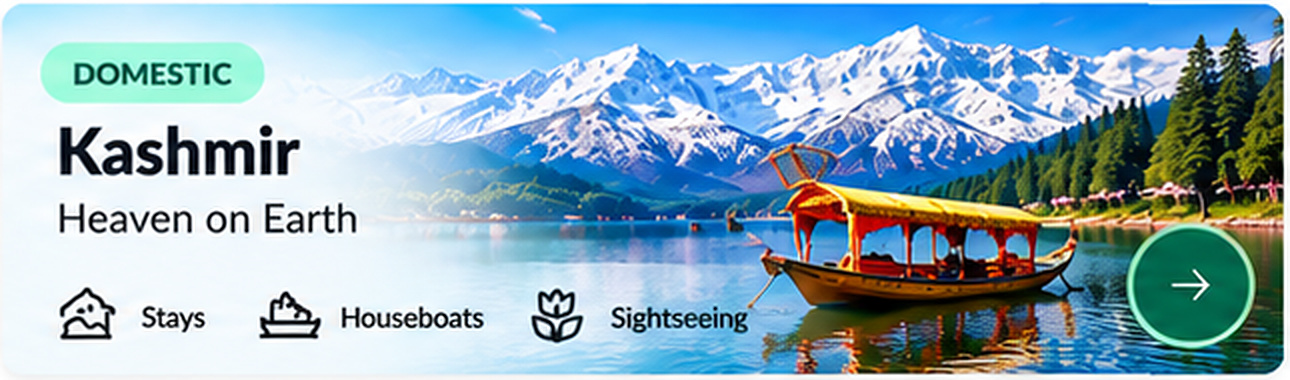
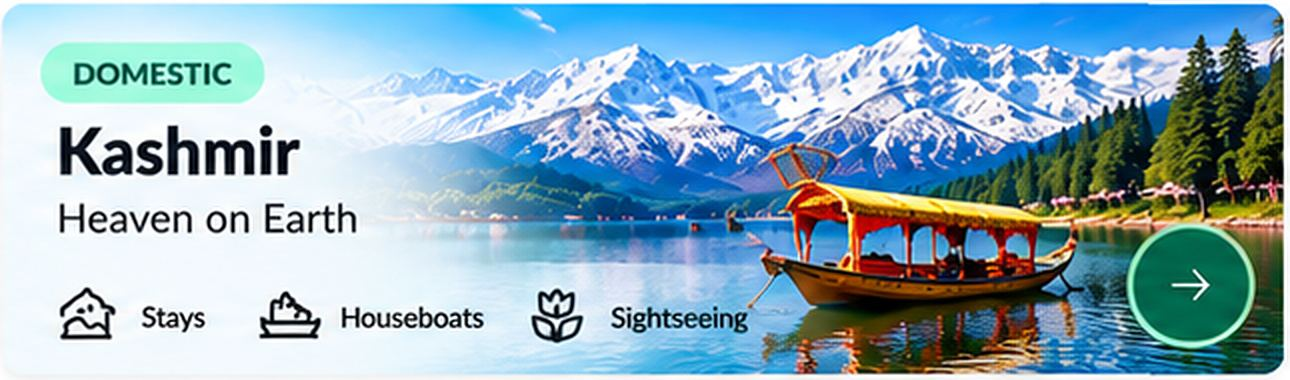
Cut homepage image weight so the first load is not tens of megabytes.

diff --git a/apps/web/components/home/HomeBoardSlider.tsx b/apps/web/components/home/HomeBoardSlider.tsx
@@ -84,19 +84,36 @@ function PromoSlider({
             target.addEventListener('pointerup', finish);
           }}
         >
-          {slides.map((slide, slideIndex) => (
-            <div className="home-promo-slide" key={slide.src} aria-hidden={slideIndex !== index}>
-              <Link
-                href={slide.href}
-                tabIndex={slideIndex === index ? 0 : -1}
-                onClick={(event) => {
-                  if (Math.abs(drag.current) > 48) event.preventDefault();
-                }}
-              >
-                <img src={slide.src} alt={slide.alt} width={slide.width} height={slide.height} />
-              </Link>
-            </div>
-          ))}
+          {slides.map((slide, slideIndex) => {
+            const distance = Math.min(
+              (slideIndex - index + slides.length) % slides.length,
+              (index - slideIndex + slides.length) % slides.length,
+            );
+            const current = slideIndex === index;
+            return (
+              <div className="home-promo-slide" key={slide.src} aria-hidden={!current}>
+                <Link
+                  href={slide.href}
+                  tabIndex={current ? 0 : -1}
+                  onClick={(event) => {
+                    if (Math.abs(drag.current) > 48) event.preventDefault();
+                  }}
+                >
+                  {distance <= 1 ? (
+                    <img
+                      src={slide.src}
+                      alt={slide.alt}
+                      width={slide.width}
+                      height={slide.height}
+                      loading={current ? 'eager' : 'lazy'}
+                      decoding="async"
+                      fetchPriority={current ? 'high' : 'low'}
+                    />
+                  ) : null}
+                </Link>
+              </div>
+            );
+          })}
         </div>
       </div>
 
@@ -125,11 +142,28 @@ function PromoSlider({
 }
 
 export function HomeBoardSlider({ className = '' }: { className?: string }) {
+  const [active, setActive] = useState(false);
+
+  useEffect(() => {
+    const media = window.matchMedia('(max-width: 760px)');
+    const sync = () => {
+      const mobile = media.matches;
+      setActive(className.includes('mobile') ? mobile : !mobile);
+    };
+    sync();
+    media.addEventListener('change', sync);
+    return () => media.removeEventListener('change', sync);
+  }, [className]);
+
   return (
     <section className={`home-board page-width ${className}`.trim()} aria-label="Trip deals">
       <div className="home-board-row">
-        <PromoSlider slides={INTERNATIONAL} label="International trips" interval={5200} className="is-international" />
-        <PromoSlider slides={DOMESTIC} label="Domestic trips" interval={3800} className="is-domestic" />
+        {active ? (
+          <>
+            <PromoSlider slides={INTERNATIONAL} label="International trips" interval={5200} className="is-international" />
+            <PromoSlider slides={DOMESTIC} label="Domestic trips" interval={3800} className="is-domestic" />
+          </>
+        ) : null}
       </div>
     </section>
   );

diff --git a/apps/web/components/home/MobileHome.tsx b/apps/web/components/home/MobileHome.tsx
@@ -8,17 +8,17 @@ import { HomeBoardSlider } from '@/components/home/HomeBoardSlider';
 import './mobile-home.css';
 
 const destinations = [
-  { name: 'Manali', href: '/hotels?city=Manali', image: '/reference/destination-backgrounds/manali-bg.png' },
-  { name: 'Shimla', href: '/hotels?city=Shimla', image: '/images/brochure-shimla-church.png' },
+  { name: 'Manali', href: '/hotels?city=Manali', image: '/images/home/lite/dest-manali.jpg' },
+  { name: 'Shimla', href: '/hotels?city=Shimla', image: '/images/home/lite/dest-shimla.jpg' },
   { name: 'Kasol', href: '/hotels?city=Kasol', image: '/meta/himachal_special/kullu.webp' },
-  { name: 'Auli', href: '/hotels?city=Auli', image: '/images/brochure-kufri-ridge.png' },
+  { name: 'Auli', href: '/hotels?city=Auli', image: '/images/home/lite/card-ridge.jpg' },
 ];
 
 const stays = [
-  { name: 'Riverside lodge', href: '/hotels?city=Manali', image: '/images/brochure-manali-lodge.png' },
-  { name: 'Ridge cottage', href: '/hotels?city=Shimla', image: '/images/brochure-shimla-church.png' },
-  { name: 'Pine cabin', href: '/hotels?city=Manali', image: '/images/brochure-himalayan-dawn.png' },
-  { name: 'Valley stay', href: '/hotels?city=Kasol', image: '/reference/destination-backgrounds/manali-bg.png' },
+  { name: 'Riverside lodge', href: '/hotels?city=Manali', image: '/images/home/lite/card-lodge.jpg' },
+  { name: 'Ridge cottage', href: '/hotels?city=Shimla', image: '/images/home/lite/dest-shimla.jpg' },
+  { name: 'Pine cabin', href: '/hotels?city=Manali', image: '/images/home/lite/hero-mobile.jpg' },
+  { name: 'Valley stay', href: '/hotels?city=Kasol', image: '/images/home/lite/dest-manali.jpg' },
 ];
 
 const trust = [
@@ -32,13 +32,13 @@ const trust = [
 export function MobileHome() {
   return (
     <div className="m-home">
+      <link rel="preload" as="image" href="/images/home/lite/hero-mobile.jpg" media="(max-width: 760px)" />
       <section className="m-hero">
         <Image
           className="m-hero-photo"
-          src="/images/brochure-himalayan-dawn.png"
+          src="/images/home/lite/hero-mobile.jpg"
           alt=""
           fill
-          priority
           sizes="100vw"
         />
         <div className="m-hero-copy">
@@ -123,7 +123,7 @@ export function MobileHome() {
             </span>
           </div>
           <div className="m-pack-photo">
-            <Image src="/images/brochure-kufri-ridge.png" alt="" fill sizes="180px" />
+            <Image src="/images/home/lite/card-ridge.jpg" alt="" fill sizes="180px" />
           </div>
         </Link>
       </section>

diff --git a/apps/web/components/DestinationShowcase.tsx b/apps/web/components/DestinationShowcase.tsx
@@ -12,7 +12,7 @@ const destinations = [
     price: '₹3,999',
     trending: true,
     href: '/hotels?city=Goa',
-    image: '/reference/destination-backgrounds/goa-bg.png',
+    image: '/images/home/lite/dest-goa.jpg',
     className: 'destination-card-goa',
   },
   {
@@ -22,7 +22,7 @@ const destinations = [
     price: '₹2,999',
     trending: false,
     href: '/hotels?city=Manali',
-    image: '/reference/destination-backgrounds/manali-bg.png',
+    image: '/images/home/lite/dest-manali.jpg',
     className: 'destination-card-manali',
   },
   {
@@ -32,7 +32,7 @@ const destinations = [
     price: '₹4,999',
     trending: false,
     href: '/hotels?city=Kashmir',
-    image: '/reference/destination-backgrounds/kashmir-bg.png',
+    image: '/images/home/lite/dest-kashmir.jpg',
     className: 'destination-card-kashmir',
   },
   {
@@ -42,7 +42,7 @@ const destinations = [
     price: '₹7,999',
     trending: false,
     href: '/hotels?city=Dubai',
-    image: '/reference/destination-backgrounds/dubai-bg.png',
+    image: '/images/home/lite/dest-dubai.jpg',
     className: 'destination-card-dubai',
   },
   {
@@ -52,7 +52,7 @@ const destinations = [
     price: '₹2,499',
     trending: false,
     href: '/hotels?city=Jaipur',
-    image: '/reference/destination-backgrounds/jaipur-bg.png',
+    image: '/images/home/lite/dest-jaipur.jpg',
     className: 'destination-card-jaipur',
   },
   {
@@ -62,7 +62,7 @@ const destinations = [
     price: '₹2,799',
     trending: false,
     href: '/hotels?city=Shimla',
-    image: '/images/brochure-shimla-church.png',
+    image: '/images/home/lite/dest-shimla.jpg',
     className: 'destination-card-shimla',
   },
 ] as const;

diff --git a/apps/web/components/OfferShowcase.tsx b/apps/web/components/OfferShowcase.tsx
@@ -13,7 +13,7 @@ const offers = [
     title: '35% off',
     detail: 'On hotels',
     href: '/hotels?city=Goa',
-    image: '/reference/offer-backgrounds/goa-bg.png',
+    image: '/images/home/lite/offer-goa.jpg',
     className: 'offer-card-goa',
   },
   {
@@ -22,7 +22,7 @@ const offers = [
     title: '25% off',
     detail: 'On packages',
     href: '/packages',
-    image: '/reference/offer-backgrounds/flights-bg.png',
+    image: '/images/home/lite/offer-flights.jpg',
     className: 'offer-card-flights',
   },
   {
@@ -31,7 +31,7 @@ const offers = [
     title: 'From ₹499',
     detail: 'On bus tickets',
     href: '/cabs',
-    image: '/reference/offer-backgrounds/bus-bg.png',
+    image: '/images/home/lite/offer-bus.jpg',
     className: 'offer-card-buses',
   },
   {
@@ -40,7 +40,7 @@ const offers = [
     title: 'Up to 20% off',
     detail: 'On selected stays',
     href: '/hotels?offers=true',
-    image: '/reference/offer-backgrounds/weekend-bg.png',
+    image: '/images/home/lite/offer-weekend.jpg',
     className: 'offer-card-weekend',
   },
 ] as const;

diff --git a/apps/web/components/home/home-catalog-sections.tsx b/apps/web/components/home/home-catalog-sections.tsx
@@ -34,7 +34,11 @@ import { Skeleton } from '@/components/ui/skeleton';
 
 function photoOf(urls: string[] | undefined, fallback: string) {
   const first = urls?.find(Boolean);
-  return first || fallback;
+  if (!first) return fallback;
+  if (first.includes('images.unsplash.com')) {
+    return first.replace(/([?&])w=\d+/, '$1w=800').replace(/([?&])q=\d+/, '$1q=70');
+  }
+  return first;
 }
 
 function clip(text: string | null | undefined, max = 88) {
@@ -212,7 +216,7 @@ export function HomePackagesSection() {
               <Link key={pack.id} href={`/packages/${pack.slug}`} className="home-product-card">
                 <span className="home-product-media kbc-media-cover">
                   <Image
-                    src={photoOf(pack.photos, '/reference/destination-backgrounds/goa-bg.png')}
+                    src={photoOf(pack.photos, '/images/home/lite/dest-goa.jpg')}
                     alt=""
                     fill
                     sizes="(max-width: 700px) 90vw, 33vw"

diff --git a/apps/web/app/page.tsx b/apps/web/app/page.tsx
@@ -24,13 +24,13 @@ export default function HomePage() {
       <main>
         <MobileHome />
         <div className="home-desktop">
+        <link rel="preload" as="image" href="/images/home/lite/hero-desktop.jpg" media="(min-width: 761px)" />
         <section className="page-width trip-banner home-hero-only">
           <Image
             className="trip-banner-photo"
-            src="/images/holiday-packages-hero.png"
+            src="/images/home/lite/hero-desktop.jpg"
             alt=""
             fill
-            priority
             sizes="(max-width: 1368px) 100vw, 1320px"
           />
           <h1>Book everything. Travel everywhere.</h1>

diff --git a/apps/web/components/hotels/hotels-search-hero.tsx b/apps/web/components/hotels/hotels-search-hero.tsx
@@ -33,7 +33,7 @@ import { cn } from "@/lib/utils";
 import type { HotelListing } from "@/lib/hotels-api";
 import { HotelsHeroSkeleton } from "@/components/hotels/hotels-page-skeleton";
 
-const HOTELS_BANNER_IMAGE = "/images/brochure-himalayan-dawn.png";
+const HOTELS_BANNER_IMAGE = "/images/home/lite/hero-mobile.jpg";
 
 type HotelsSearchHeroProps = {
   className?: string;

diff --git a/apps/web/components/home/home-story-sections.tsx b/apps/web/components/home/home-story-sections.tsx
@@ -8,7 +8,7 @@ export function HomeCabsSection() {
       <div className="home-cabs-stage">
         <div className="home-cabs-media" aria-hidden="true">
           <Image
-            src="/images/cabs/uno-cabs-traveller-pickup-v2.png"
+            src="/images/home/lite/cabs.jpg"
             alt=""
             fill
             sizes="100vw"

diff --git a/apps/web/app/packages/page.tsx b/apps/web/app/packages/page.tsx
@@ -34,7 +34,7 @@ type Props = {
   }>;
 };
 
-const FALLBACK_HERO = "/images/brochure-manali-lodge.png";
+const FALLBACK_HERO = "/images/home/lite/card-lodge.jpg";
 
 export default async function PackagesPage({ searchParams }: Props) {
   const params = await searchParams;
